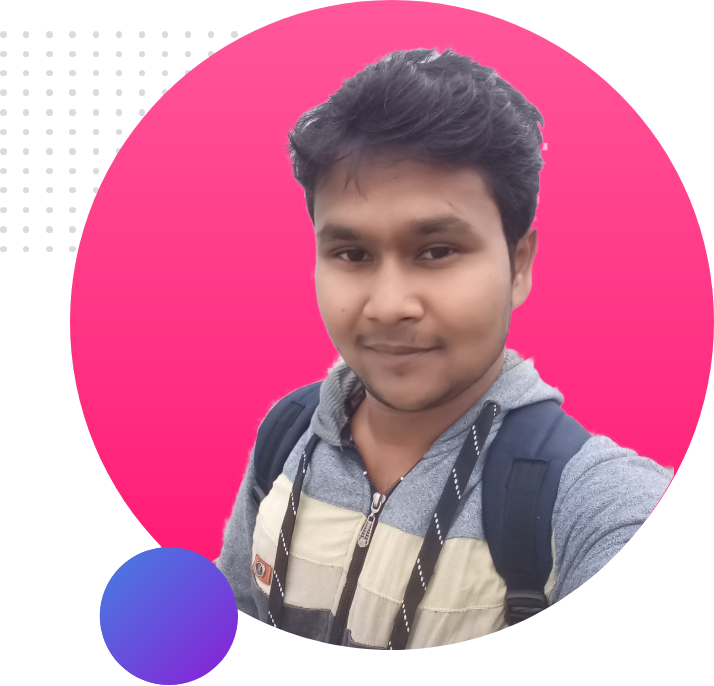
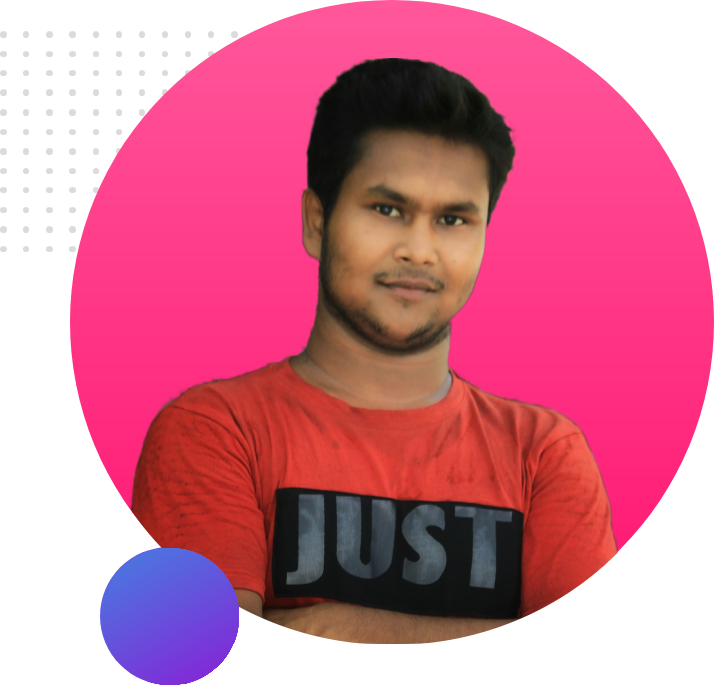
Finished my first ever website

diff --git a/index.html b/index.html
@@ -15,16 +15,41 @@
     <section class="top-banner">
         <div class="half-width">
             <h1>Welcome To</h1>
-        <h1> <span class="name-highlight"> Azad</span> Website</h1>
-        <h3>World-class Professional Web Developer</h3>
-        <p>
-            I am a web developer. I always work hard, and work with joy. I love work. I can make good websites. I want to be a website hero.I have a distinct fascination with ICT since childhood, which is still ongoing. So I finally ventured towards web development, now I can say, a successful web developer.
-        </p>
+     <h1> <span class="orange-highlight"> Azad</span> Website</h1>
+    <h3>World-class Professional Web Developer</h3>
+    <p>I am a web developer. I always work hard, and work with joy. I love work. I can make good websites. I want to be a website hero.I have a distinct fascination with ICT since childhood, which is still ongoing. So I finally ventured towards web development, now I can say, a successful web developer.</p>
+    <a class="link-button" target="_blank" href="https://www.linkedin.com/in/abul-kalam-azad-67642917b/"> HIRE ME</a>
         </div>
         <div class="half-width">
             <img src="images/profile1.png" alt="">
         </div>
+    </section >
+    <section class="dream-area">
+        <div class="half-width">
+<img src="images/profile2.png" alt="">
+        </div>
+        <div class="half-width">
+<h2>Dreem Area</h2>
+<h3> Become a web developer </h3>
+    <p>Hello Everyone, This project is about Personal Portfolio Landing Page Website Design. Here I want to show my exploration of Personal Portfolio Landing Page Website Design. I tried to make a Personal Portfolio Landing Page Website Design that is Minimal, Modern, Creative, and Easy to customize, Which provides great flexibility and ease of use when it comes to completing the touch of your project. I hope you will also like it</p>
+    <a class="link-button" target="_blank" href="https://www.facebook.com/azad.4600"> VISIT MY FACEBOOK</a>
+    </div>
     </section>
-
+    <section class="experience-area"> 
+        <h2>Experiences</h2>
+        <div id="full-stack" class="half-width single-experience">
+            <h2>Full Stack Web Developer</h2>
+            <h3 class="orange-highlight">2021-Present | Pro Level Developer</h3>
+            <p> I am the master of HTML, CSS and Javascript. I know everything needed to make a website function, efficient. I didn't stop with the web. I went beyond with most popular Javascript framework called Vue JS. I even know the deployment, server and security. I will give you 100% web solution.</p>
+        </div>
+        <div id="baby-web" class="half-width single-experience">
+            <h2>Baby Web Developer</h2>
+            <h3 class="orange-highlight">2020-2021 | Programming Hero Learner</h3>
+            <p>They didn't offer me a job. But I made myself as a remove web developer. I made their website and showed it to them. They liked it. And uploaded the content. It was fun working at Programming Hero.</p>
+        </div>
+    </section>
+    <footer>
+        <p>© Abul Kalam Azad 2023, all rights reserved.</p>
+    </footer>
 </body>
 </html>

diff --git a/style.css b/style.css
@@ -5,7 +5,13 @@ body{
 h1{
     font-size: 50px;
 }
-.name-highlight{
+h2{
+    font-size: 40px;
+}
+p{
+    color: dimgray;
+}
+.orange-highlight{
     color: orange;
 }
 .half-width{
@@ -23,4 +29,45 @@ h1{
 }
 section{
     height: 500px;
+    padding-bottom: 150px;
+}
+.link-button{
+    text-decoration: none;
+    background-image: linear-gradient(45deg, lightsalmon, tomato);
+    padding: 10px 20px;
+    border-radius: 5px;
+    color: white;
+    font-weight: 700;
+
+}
+.dream-area{
+    background-image: url("images/dream-bg.png");
+    background-repeat: no-repeat;
+    background-position: right;
+}
+.single-experience{
+    box-shadow: 10px 10px 40px gray;
+    border-radius: 10px;
+    height: 80%;
+    background-color: white;
+}
+.experience-area{
+    background-image: url("images/exp-bg.png");
+    background-repeat: no-repeat;
+    background-position: left;
+
+}
+#full-stack{
+    border-left: 7px solid;
+    border-image: linear-gradient(180deg, lightsalmon, tomato);
+    border-image-slice: 1;
+}
+#baby-web{
+    border-left: 7px solid;
+    border-image: linear-gradient(180deg, blue, cyan);
+    border-image-slice: 1;
+}
+
+footer p{
+    text-align: center;
 }
